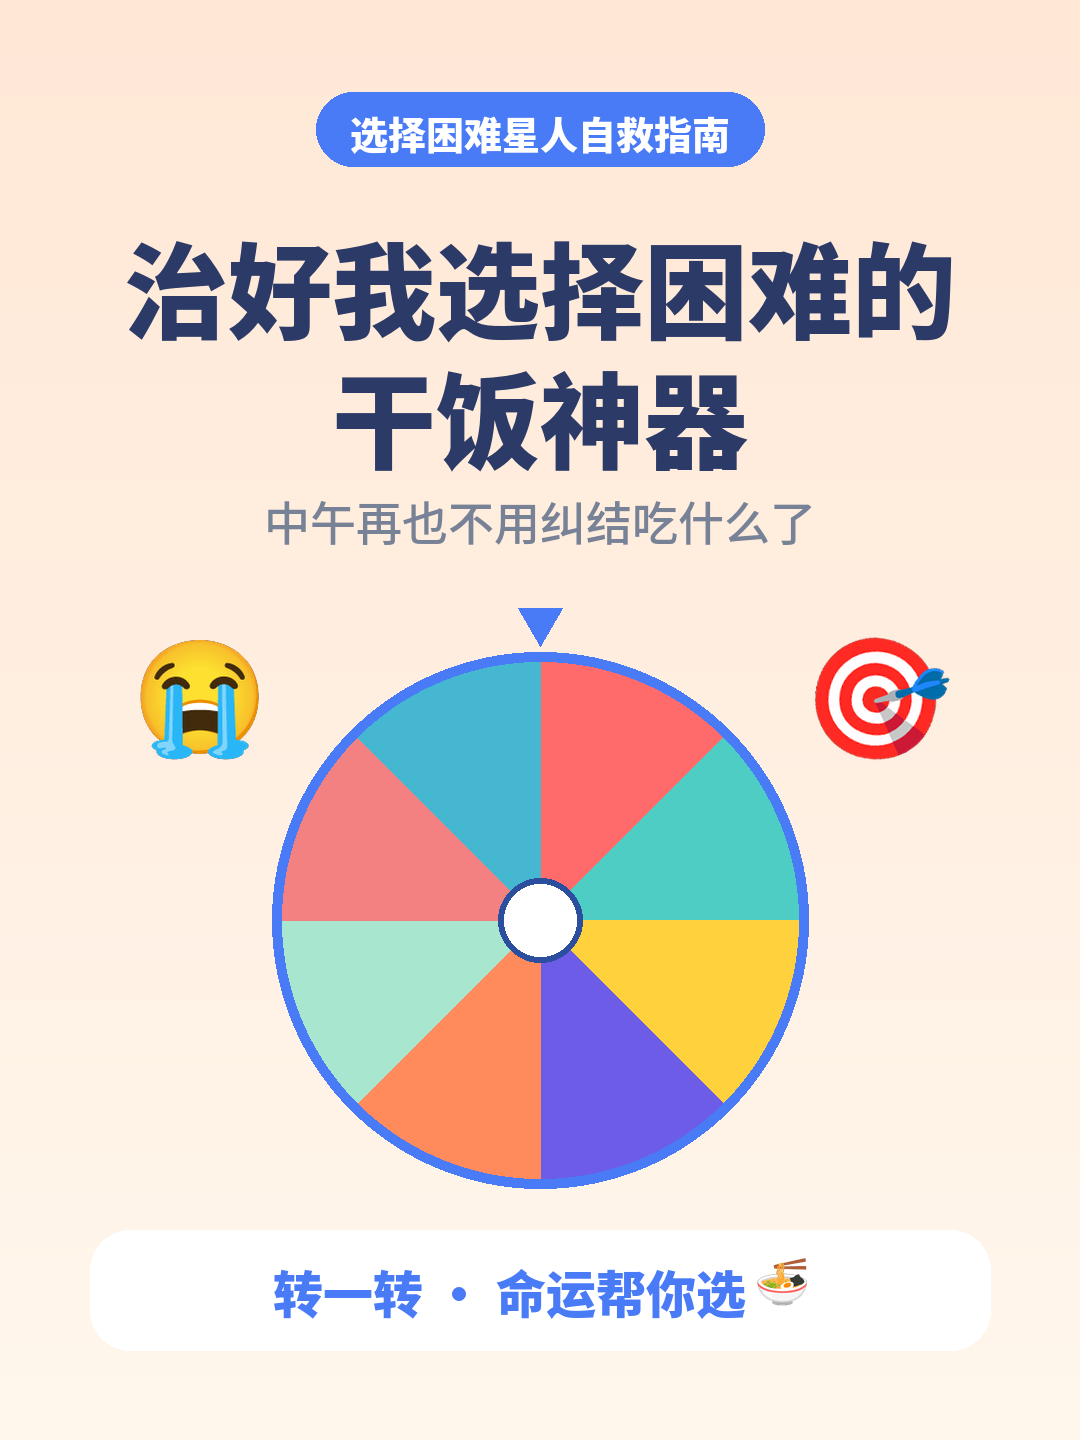
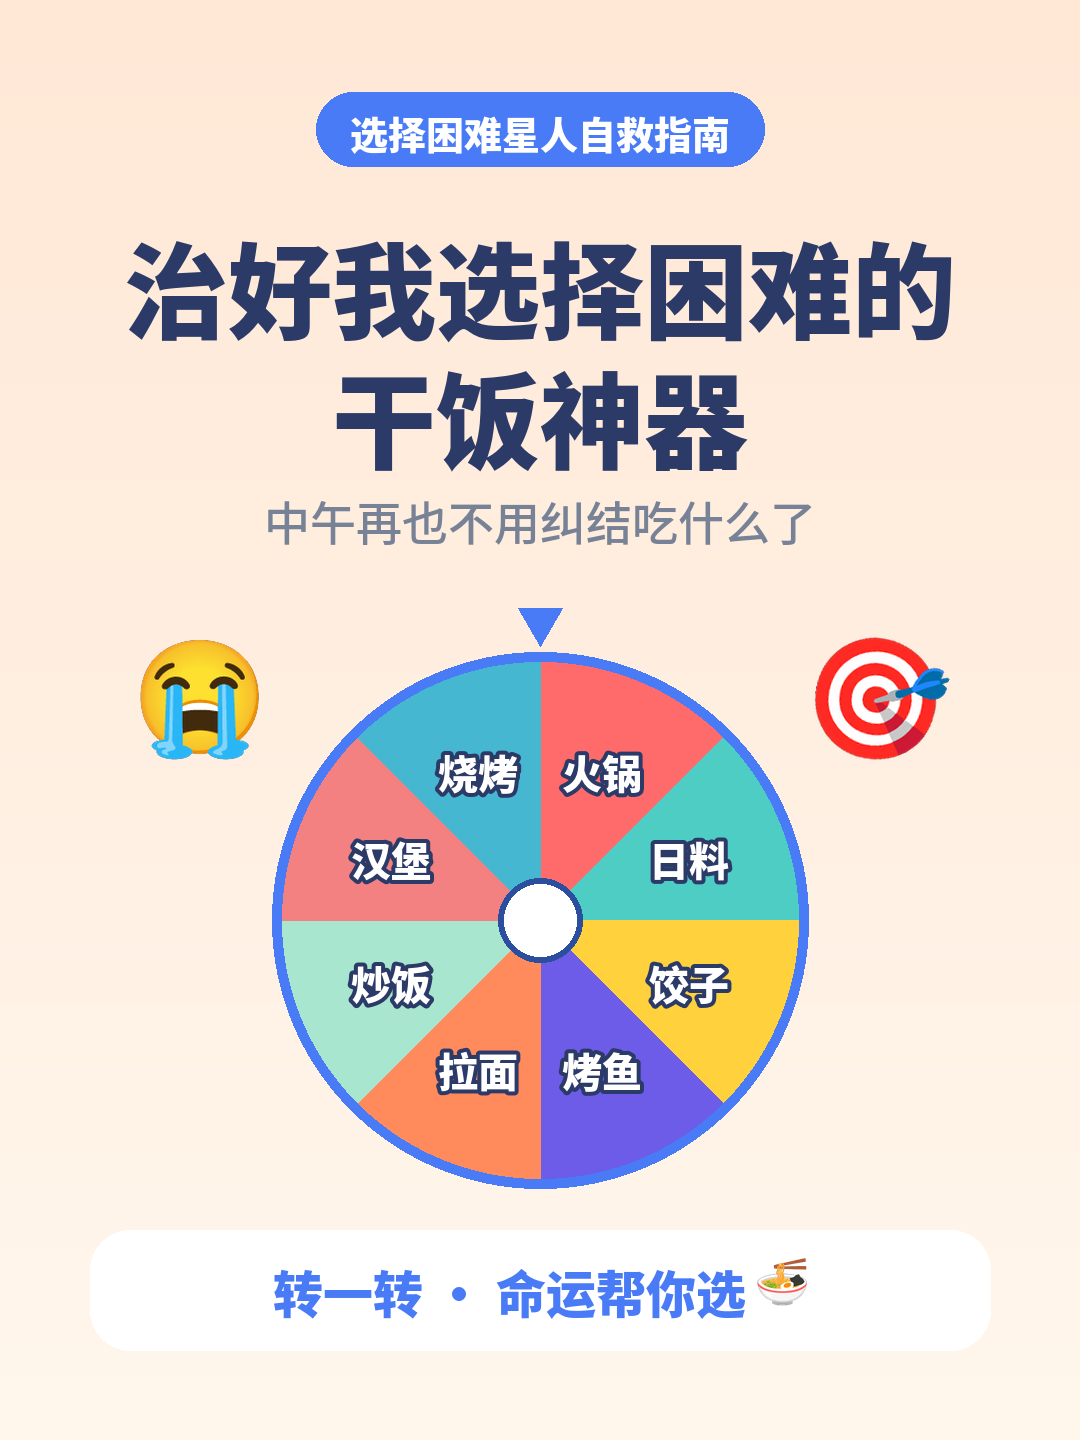
小红书封面转盘扇区加上食物名字，更直观

diff --git a/images/gen_xhs.py b/images/gen_xhs.py
@@ -133,9 +133,11 @@ def paste_emoji(img, ch, size, cx, cy, rot=0):
 
 
 def draw_wheel(img, cx, cy, r):
-    """在封面画一个迷你彩色转盘，呼应小程序。"""
+    """在封面画一个迷你彩色转盘，带食物名字，呼应小程序。"""
     colors = [(255, 107, 107), (78, 205, 196), (255, 209, 61), (108, 92, 231),
               (255, 138, 92), (168, 230, 207), (243, 129, 129), (69, 183, 209)]
+    names = ['火锅', '日料', '饺子', '烤鱼',
+             '拉面', '炒饭', '汉堡', '烧烤']
     layer = Image.new('RGBA', (r * 2 + 20, r * 2 + 20), (0, 0, 0, 0))
     ld = ImageDraw.Draw(layer)
     ox = oy = r + 10
@@ -146,6 +148,15 @@ def draw_wheel(img, cx, cy, r):
         ld.pieslice([ox - r, oy - r, ox + r, oy + r], a0, a1, fill=colors[i])
     # 外圈
     ld.ellipse([ox - r, oy - r, ox + r, oy + r], outline=(74, 123, 247), width=10)
+    # 食物名字（水平放置在每个扇区质心，白字+深蓝描边）
+    import math
+    nf = font(int(r * 0.15), bold=True)
+    for i in range(n):
+        mid = math.radians(i * 360 / n - 90 + 22.5)
+        tx = ox + math.cos(mid) * r * 0.60
+        ty = oy + math.sin(mid) * r * 0.60
+        ld.text((tx, ty), names[i], font=nf, fill=(255, 255, 255),
+                anchor='mm', stroke_width=4, stroke_fill=(43, 58, 103))
     # 中心白圆
     cr = int(r * 0.16)
     ld.ellipse([ox - cr, oy - cr, ox + cr, oy + cr], fill=(255, 255, 255), outline=(43, 79, 158), width=6)
